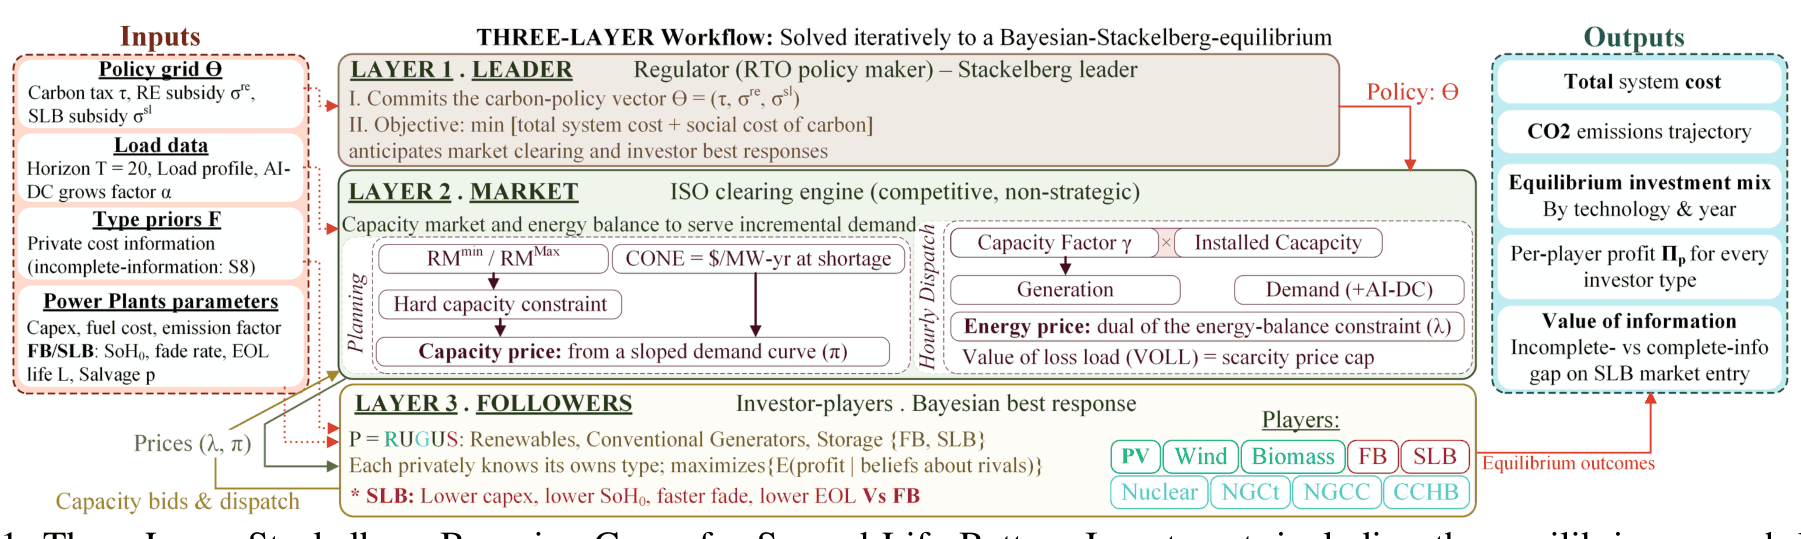
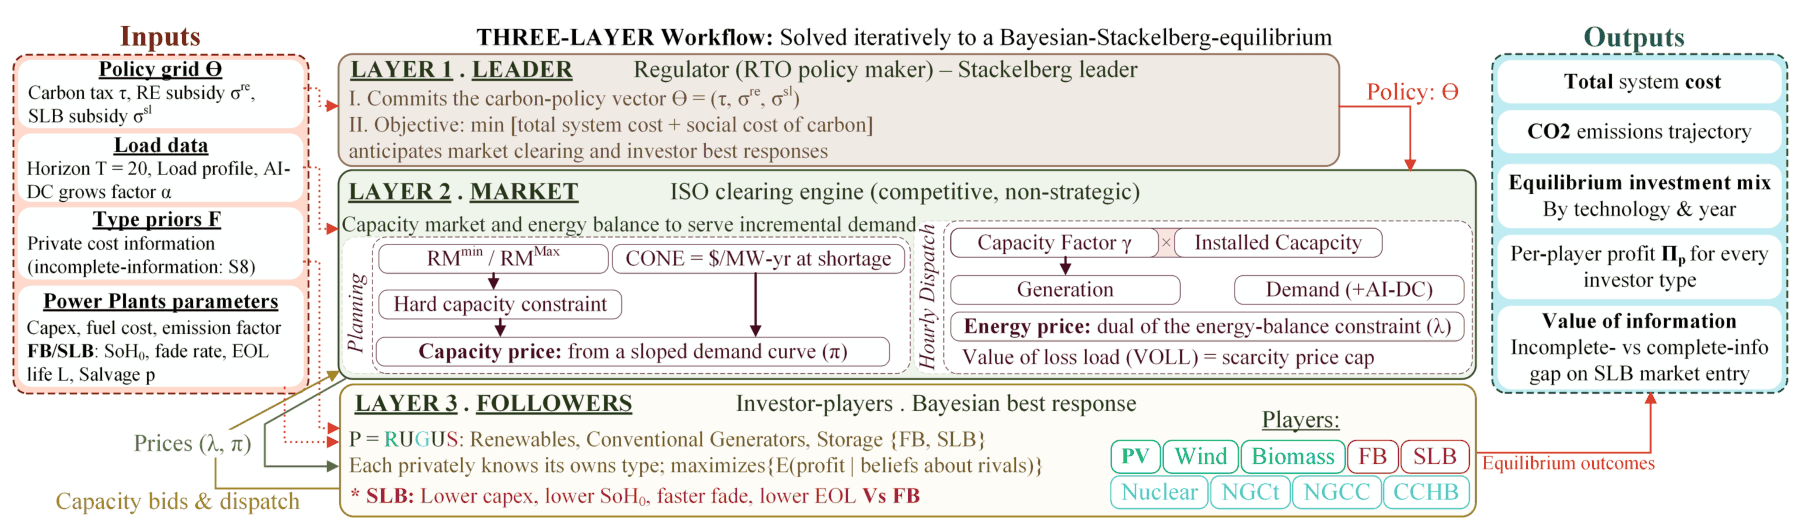
Update projects, home page, profile, and layouts
Six figures for the hybrid microgrid forecasting project, revised project
pages and layouts, home page and stylesheet changes, and profile edits
(location shortened, supervisor and NSF lines removed).

Claude-Session: https://claude.ai/code/session_01Pi9XWrj5Kpo3Wa4rzjfua1

Changed region(s): [[0.0, 0.0304, 0.995, 1.0]]

diff --git a/assets/css/site.css b/assets/css/site.css
@@ -161,6 +161,33 @@ em { font-style: italic; }
   padding: 0.25rem 0.75rem; font-size: 0.9rem;
 }
 
+.interest-grid {
+  display: grid;
+  grid-template-columns: 1fr;
+  gap: 0.6rem;
+  padding: 0;
+  margin: 0;
+  list-style: none;
+}
+.interest-grid li {
+  display: flex;
+  align-items: center;
+  justify-content: center;
+  text-align: center;
+  background: var(--bg-alt);
+  border: 1px solid var(--line);
+  border-radius: 999px;
+  padding: 0.65rem 0.9rem;
+  font-size: 0.92rem;
+  line-height: 1.35;
+}
+@media (min-width: 640px) {
+  .interest-grid { grid-template-columns: repeat(2, minmax(0, 1fr)); }
+}
+@media (min-width: 960px) {
+  .interest-grid { grid-template-columns: repeat(3, minmax(0, 1fr)); }
+}
+
 .tag {
   display: inline-block; font-size: 0.72rem; font-weight: 600; letter-spacing: 0.04em;
   text-transform: uppercase; color: var(--muted); border: 1px solid var(--line-strong);
@@ -306,10 +333,11 @@ em { font-style: italic; }
   background: var(--card); border: 1px solid var(--line); border-radius: var(--radius); box-shadow: var(--shadow);
 }
 .project-figure {
-  display: block; background: #ffffff; border-bottom: 1px solid var(--line);
-  height: 200px; padding: 0.6rem;
+  display: flex; align-items: center; justify-content: center;
+  background: #ffffff; border-bottom: 1px solid var(--line);
+  height: 220px; padding: 0.7rem 0.85rem;
 }
-.project-figure img { width: 100%; height: 100%; object-fit: contain; }
+.project-figure img { width: 100%; height: 100%; object-fit: contain; object-position: center; }
 .project-body { padding: 1rem 1.2rem 1.1rem; display: flex; flex-direction: column; gap: 0.35rem; }
 .project h3 { font-size: 1.15rem; }
 .project h3 a { color: var(--navy); text-decoration: none; }
@@ -322,9 +350,20 @@ em { font-style: italic; }
 .project-page .prose { max-width: 48rem; }
 .small-heading { font-size: 1.3rem; margin: 2rem 0 0.75rem; padding-bottom: 0.4rem; border-bottom: 1px solid var(--line); }
 .project-page .chips { margin-bottom: 0.5rem; }
-.figure { margin: 1.5rem 0; }
-.figure img { background: #ffffff; border: 1px solid var(--line); border-radius: 8px; padding: 0.75rem; }
-.figure figcaption { margin-top: 0.5rem; font-size: 0.88rem; color: var(--muted); max-width: 48rem; }
+.figure {
+  width: fit-content; max-width: 100%;
+  margin: 1.75rem auto;
+}
+.figure img {
+  width: auto; max-width: 100%; height: auto;
+  background: #ffffff; border: 1px solid var(--line); border-radius: 8px; padding: 0.75rem;
+}
+.figure figcaption {
+  margin-top: 0.55rem; font-size: 0.9rem; line-height: 1.45;
+  color: var(--muted); max-width: 48rem;
+}
+.figure-num { font-weight: 600; color: var(--text); }
+.figure-source { display: block; margin-top: 0.15rem; }
 .pub-list { max-width: 52rem; }
 
 /* ---------------------------------------------------------------------------

diff --git a/layouts/partials/figure.html b/layouts/partials/figure.html
@@ -1,16 +1,17 @@
-{{- /* A figure from one of the papers: image from the page bundle, caption, and a link to the source paper. */ -}}
+{{- /* A figure from one of the papers: image from the page bundle, numbered caption, and a link to the source paper. */ -}}
 {{ $fig := .fig }}
+{{ $n := .n }}
 {{ with .page.Resources.GetMatch $fig.src }}
   {{ $img := . }}
-  {{ if gt .Width 1600 }}{{ $img = .Resize "1600x" }}{{ end }}
+  {{ if gt .Width 2200 }}{{ $img = .Resize "2200x" }}{{ end }}
   <figure class="figure">
-    <img src="{{ $img.RelPermalink }}" width="{{ $img.Width }}" height="{{ $img.Height }}" alt="{{ $fig.caption | plainify }}" loading="lazy">
+    <img src="{{ $img.RelPermalink }}" width="{{ $img.Width }}" height="{{ $img.Height }}" alt="Figure {{ $n }}. {{ $fig.caption | plainify }}" loading="lazy">
     <figcaption>
-      {{ $fig.caption }}
+      <span class="figure-num">Figure {{ $n }}.</span> {{ $fig.caption }}
       {{ with $fig.source }}
         {{ with site.GetPage (printf "/publications/%s" .) }}
           {{ $url := .Params.paper_url }}{{ if and (not $url) .Params.doi }}{{ $url = printf "https://doi.org/%s" .Params.doi }}{{ end }}
-          Source: {{ if $url }}<a href="{{ $url }}" rel="noopener">{{ .Params.publication.name }}, {{ .Date.Format "2006" }}</a>{{ else }}{{ .Params.publication.name }}, {{ .Date.Format "2006" }}{{ end }}.
+          <span class="figure-source">Source: {{ if $url }}<a href="{{ $url }}" rel="noopener">{{ .Params.publication.name }}, {{ .Date.Format "2006" }}</a>{{ else }}{{ .Params.publication.name }}, {{ .Date.Format "2006" }}{{ end }}.</span>
         {{ end }}
       {{ end }}
     </figcaption>

diff --git a/layouts/index.html b/layouts/index.html
@@ -2,7 +2,6 @@
 {{ $me := site.Data.authors.me }}
 {{ $photo := resources.Get "media/authors/me.png" }}
 {{ $pubs := where site.RegularPages "Section" "publications" }}
-{{ $scholar := site.Params.scholar }}
 <section class="hero">
   {{ with $photo }}
     {{ $p := .Fill "400x400 Center" }}
@@ -27,16 +26,6 @@
   </div>
 </section>
 
-<p class="glance">
-  <a href="{{ "publications/" | relURL }}"><strong>{{ len $pubs }}</strong> peer-reviewed publications</a>
-  {{ with $scholar }}
-    <a href="{{ .url }}" rel="noopener"><strong>{{ .citations }}</strong> citations</a>
-    <a href="{{ .url }}" rel="noopener">h-index <strong>{{ .hindex }}</strong></a>
-  {{ end }}
-  {{ with site.Params.reviews }}<a href="{{ "professional-services/" | relURL }}"><strong>{{ . }}</strong> manuscript reviews</a>{{ end }}
-</p>
-{{ with $scholar }}<p class="stats-note">Citation counts from Google Scholar, {{ .asof }}.</p>{{ end }}
-
 <section class="section" aria-labelledby="research">
   <h2 id="research">Research</h2>
   {{ with .Params.lead }}<p class="prose">{{ . }}</p>{{ end }}
@@ -54,7 +43,7 @@
 
 <section class="section" aria-labelledby="interests">
   <h2 id="interests">Interests</h2>
-  <ul class="chips">
+  <ul class="interest-grid">
     {{ range $me.interests }}<li>{{ . }}</li>{{ end }}
   </ul>
 </section>

diff --git a/layouts/publications/list.html b/layouts/publications/list.html
@@ -1,16 +1,12 @@
 {{ define "main" }}
 {{ $pubs := .RegularPages.ByDate.Reverse }}
-{{ $nJournal := len (where $pubs "Params.publication_types" "intersect" (slice "article-journal")) }}
-{{ $nConf := len (where $pubs "Params.publication_types" "intersect" (slice "paper-conference")) }}
-{{ $nChapter := len (where $pubs "Params.publication_types" "intersect" (slice "chapter")) }}
 {{ $scholar := site.Params.scholar }}
 <header class="page-head">
   <h1>{{ .Title }}</h1>
   <div class="page-intro">{{ .Content }}</div>
-  <p class="counts">
-    <b>{{ len $pubs }}</b> publications: {{ $nJournal }} journal articles · {{ $nConf }} conference papers · {{ $nChapter }} book chapters.
-    {{ with $scholar }}Citations <b>{{ .citations }}</b> · h-index <b>{{ .hindex }}</b> (<a href="{{ .url }}">Google Scholar</a>, {{ .asof }}).{{ end }}
-  </p>
+  {{ with $scholar }}
+  <p class="counts">Citations <b>{{ .citations }}</b> · h-index <b>{{ .hindex }}</b> (<a href="{{ .url }}">Google Scholar</a>, {{ .asof }}).</p>
+  {{ end }}
 </header>
 
 {{ with .Params.under_review }}

diff --git a/layouts/projects/single.html b/layouts/projects/single.html
@@ -7,11 +7,15 @@
   <h1>{{ .Title }}</h1>
   {{ with .Params.tags }}<p class="tags">{{ delimit . " · " }}</p>{{ end }}
 
-  {{ range first 1 $figures }}
-    {{ partial "figure.html" (dict "page" $page "fig" .) }}
+  {{ range $fig := first 1 $figures }}
+    {{ partial "figure.html" (dict "page" $page "fig" $fig "n" 1) }}
   {{ end }}
 
   <div class="prose">{{ .Content }}</div>
+
+  {{ range $i, $fig := after 1 $figures }}
+    {{ partial "figure.html" (dict "page" $page "fig" $fig "n" (add $i 2)) }}
+  {{ end }}
 
   {{ with .Params.tech_stack }}
     <h2 class="small-heading">Methods and tools</h2>
@@ -27,8 +31,5 @@
     </div>
   {{ end }}
 
-  {{ range after 1 $figures }}
-    {{ partial "figure.html" (dict "page" $page "fig" .) }}
-  {{ end }}
 </article>
 {{ end }}

diff --git a/layouts/projects/list.html b/layouts/projects/list.html
@@ -16,7 +16,8 @@
       <article class="project" data-tags="{{ delimit .Params.tags "|" }}">
         {{ with $fig }}
           {{ with $proj.Resources.GetMatch .src }}
-            {{ $thumb := .Resize "900x" }}
+            {{ $thumb := . }}
+            {{ if gt .Width 1200 }}{{ $thumb = .Resize "1200x" }}{{ end }}
             <a class="project-figure" href="{{ $proj.RelPermalink }}" aria-hidden="true" tabindex="-1"><img src="{{ $thumb.RelPermalink }}" width="{{ $thumb.Width }}" height="{{ $thumb.Height }}" alt="" loading="lazy"></a>
           {{ end }}
         {{ end }}

diff --git a/README.md b/README.md
@@ -1,42 +1,5 @@
-# Rouzbeh Haghighi — Personal Website
+# Rouzbeh Haghighi
 
-Source for [rouzbehhaghighi.github.io](https://rouzbehhaghighi.github.io), the academic website of Rouzbeh Haghighi, Ph.D. candidate in Electrical & Computer Engineering at the University of Michigan-Dearborn.
+Academic website of Rouzbeh Haghighi, Ph.D. candidate in Electrical and Computer Engineering at the University of Michigan-Dearborn.
 
-The pages, styles, and text in this repository are written for this site. See `LICENSE`.
-
-## Where things live
-
-| Page or item            | Edit this                                                                                   |
-| ----------------------- | ------------------------------------------------------------------------------------------- |
-| Profile, bio, links     | `data/authors/me.yaml`                                                                      |
-| Profile photo           | `assets/media/authors/me.png`                                                               |
-| About (home) page       | `content/_index.md` (lead sentence, research directions) and `layouts/index.html`           |
-| Citation metrics        | `params.scholar` and `params.reviews` in `config/_default/config.yaml`                      |
-| CV page                 | `content/cv.md` and `data/authors/me.yaml`                                                  |
-| Publications            | one folder per paper in `content/publications/` with `index.md` (title, venue, DOI, abstract) |
-| Manuscripts in review   | `content/publications/_index.md`                                                            |
-| Projects                | one folder per project in `content/projects/` with `index.md` and figure images             |
-| Professional service    | `content/professional-services.md`                                                          |
-| Teaching                | `content/teaching.md`                                                                       |
-| News                    | one folder per item in `content/blog/`                                                      |
-| Menu                    | `config/_default/menus.yaml`                                                                |
-| Colors and type         | `assets/css/site.css` (design tokens at the top, light and dark)                            |
-| Page HTML               | `layouts/`                                                                                  |
-
-### Publications
-
-Each publication's title links to its DOI page (`paper_url`, or `doi` if `paper_url` is absent). Two actions appear under each entry: **Abstract** (from the `abstract` field; set `abstract_kind: summary` when the text is a summary rather than a published abstract) and **DOI**. Individual publication pages are not rendered.
-
-### Projects
-
-A project can list `figures` (image file in the project folder, caption, and the `source` publication slug used for attribution) and `related` publication slugs, which are rendered as a "Related publications" list. The first figure is used as the card image on the Projects page. The Projects page accepts a `?tag=` query parameter to pre-select a filter.
-
-The `Publications/` folder holds local copies of the published PDFs used as source material for abstracts and figures. It is ignored by git and is not deployed.
-
-## Deployment
-
-Every push to `main` runs the **Deploy site** workflow (`.github/workflows/deploy.yml`), which builds the site and publishes it to the `gh-pages` branch. GitHub Pages serves that branch.
-
-## Contact
-
-haghighi@umich.edu · [Google Scholar](https://scholar.google.com/citations?user=D66vE80AAAAJ) · [LinkedIn](https://www.linkedin.com/in/haghighirouzbeh/) · [ORCID](https://orcid.org/0009-0006-7710-1266)
+[rouzbehhaghighi.github.io](https://rouzbehhaghighi.github.io)

diff --git a/content/projects/ibr-reliability-assessment/index.md b/content/projects/ibr-reliability-assessment/index.md
@@ -2,7 +2,7 @@
 title: "Reliability Assessment under High IBR Penetration"
 date: 2026-09-30
 weight: 4
-summary: "Probabilistic reliability and resource-adequacy metrics for inverter-dominated grids (NSF Award #2321661)."
+summary: "Probabilistic reliability and resource-adequacy metrics for inverter-dominated grids."
 tags:
   - "Reliability & Resilience"
 tech_stack:
@@ -23,6 +23,6 @@ related:
   - 2024-energies-ibr-reliability-survey
 ---
 
-Inverter-based resources change what reliability means for a power system: low inertia, bidirectional flows, new failure modes in power electronics, and uncertainty that traditional indices do not capture. This project develops stochastic, probabilistic frameworks for reliability and resource-adequacy metrics on grids dominated by IBRs, as part of the NSF project “Enhancing Grid Reliability and Stability with Distributed Energy Resources” (Award #2321661).
+Inverter-based resources change what reliability means for a power system: low inertia, bidirectional flows, new failure modes in power electronics, and uncertainty that traditional indices do not capture. This project develops stochastic, probabilistic frameworks for reliability and resource-adequacy metrics on grids dominated by IBRs.
 
 Our survey in *Energies* reviewed reliability at the device, component, and system levels and argued that these levels must be analyzed together: converter reliability shapes system indices, and system conditions shape converter stress. It catalogs classic indices alongside those newly proposed for IBR-penetrated grids and sets out a multi-level research agenda, including benchmark systems, data sharing on converter failure behavior, and reliability software that coordinates components and layers.

diff --git a/content/projects/hybrid-microgrid-forecasting/index.md b/content/projects/hybrid-microgrid-forecasting/index.md
@@ -13,6 +13,19 @@ tech_stack:
   - "Hybrid PV/wind/battery systems"
 status: "Completed"
 featured: false
+figures:
+  - src: fig-1.png
+    caption: "Hybrid PV/wind/battery microgrid, with the PV array and battery bank on the DC bus and the wind turbine and AC load on the AC bus."
+  - src: fig-2.png
+    caption: "Aerodynamic forces on a turbine blade: lift, drag, relative wind, and the angle of attack."
+  - src: fig-3.png
+    caption: "Actuator-disk model of the wind stream through a turbine rotor, with area, velocity, and pressure upstream, at the rotor, and downstream."
+  - src: fig-4.png
+    caption: "Wind-turbine energy conversion system and its dynamic model, from wind speed and pitch angle through the gearbox and generator to electrical power."
+  - src: fig-5.png
+    caption: "Mechanical and power model of a wind turbine, from wind speed through torque, inertia, and the power coefficient to generator speed and the load."
+  - src: fig-6.png
+    caption: "Hybrid PV–wind–battery system model: a 600 kW PV array, a 3 MW wind turbine, the load, and a 1500 Ah battery with its management system."
 ---
 
 A microgrid can only be controlled as well as its inputs can be predicted. My M.Sc. thesis at Amirkabir University of Technology (2022) developed short- and medium-term forecasting models for wind speed, solar irradiance, load, and battery state of charge, and integrated them into the energy management strategy of a hybrid PV/wind/battery microgrid.

diff --git a/content/_index.md b/content/_index.md
@@ -10,4 +10,4 @@ directions:
     text: Hosting-capacity and reliability frameworks for large, uncertain AI data-center loads, with grid-aware load coordination and energy-storage strategies that expand hosting capacity while preserving reliability.
 ---
 
-I also work on reliability assessment under high inverter-based-resource penetration, resilience of interdependent infrastructure, and game-theoretic models of carbon policy and second-life battery investment, and I contribute to NSF Award #2321661, “Enhancing Grid Reliability and Stability with Distributed Energy Resources.”
+I also work on reliability assessment under high inverter-based-resource penetration, resilience of interdependent infrastructure, and game-theoretic models of carbon policy and second-life battery investment.

diff --git a/content/projects/storage-carbon-policy-games/index.md b/content/projects/storage-carbon-policy-games/index.md
@@ -12,7 +12,7 @@ tech_stack:
   - "Deep reinforcement learning (SAC)"
   - "Second-life batteries"
   - "EV charging stations"
-status: "Ongoing"
+status: "Completed"
 featured: false
 figures:
   - src: fig-1.png
